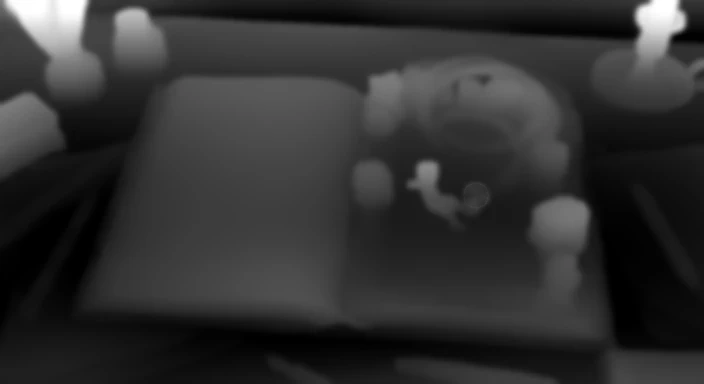
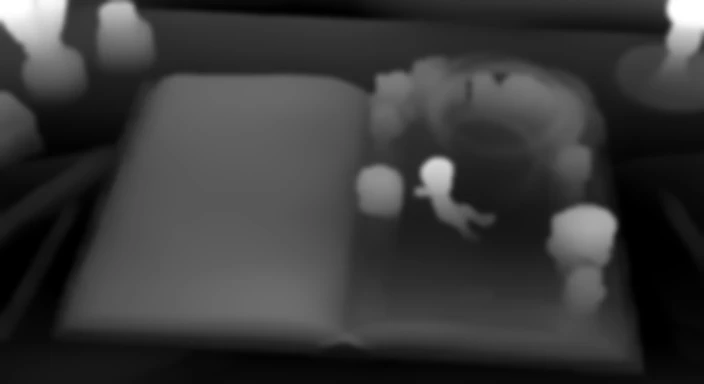
Upside-Down World: new 3D art for page one, ball flight starts at the new ball
Claude-Session: https://claude.ai/code/session_01BFtifSTdmWYaAK88ECs5PE

diff --git a/books/upside-down-world/sprite.js b/books/upside-down-world/sprite.js
@@ -1,2 +1,2 @@
 /* flying objects drawn over a still page: img = transparent sprite, rs = ball radius in the sprite, path = [x,y,radius] per frame at 24 fps in 1408x768 picture pixels */
-window.SPRITES={p01:{img:"img/p01-ball.webp",size:260,rs:104.5,path:[[951.0,390.0,18.5],[946.4,377.6,21.9],[944.8,373.2,22.6],[941.8,364.8,24.4],[938.6,356.8,26.0],[935.2,349.1,27.6],[931.6,342.1,29.2],[927.9,335.5,30.7],[923.8,329.1,32.0],[919.7,322.8,33.5],[915.7,316.9,34.9],[911.8,311.1,36.2],[907.8,305.5,37.6],[903.9,300.1,38.9],[899.8,295.1,40.2],[895.8,290.0,41.2],[891.4,285.1,42.2],[887.2,280.3,43.2],[882.9,275.7,44.3],[878.9,271.0,45.3],[874.9,266.6,46.5],[871.2,262.1,47.8],[867.5,257.7,49.1],[863.9,253.4,50.5],[860.2,249.1,51.8],[856.2,244.7,53.0],[852.4,240.6,54.2],[848.3,236.6,55.3],[843.9,232.6,56.5],[839.6,228.6,57.6],[835.4,224.8,58.6],[830.9,221.0,59.7],[826.3,217.3,60.7],[821.9,213.7,61.5],[817.4,210.1,62.4],[812.8,206.8,63.6],[808.1,203.5,64.5],[803.4,200.3,65.6],[798.8,196.9,66.6],[794.1,193.7,67.7],[789.4,190.4,68.8],[784.8,187.1,70.0],[780.1,183.8,71.3],[775.3,180.6,72.7],[770.3,177.4,74.1],[765.1,174.3,75.5],[759.8,171.1,77.0],[754.7,167.8,78.5],[749.2,164.6,80.0],[743.7,161.4,81.3],[738.1,157.9,82.7],[732.6,154.6,84.0]]},p02:{img:"img/p01-ball.webp",size:260,rs:104.5,kind:"lob",from:[1008,538,9],to:[1040,212,4.2],apex:170,rig:[{img:"img/p02-leg.webp",box:[960,515,60,60],pivot:[987,531],depth:[988,545],motion:"leg"}]},p03:{rig:[{img:"img/p03-leo.webp",box:[906,462,52,56],pivot:[932,504],depth:[932,495],motion:"headL"},{img:"img/p03-sam.webp",box:[946,475,52,56],pivot:[972,515],depth:[972,505],motion:"headS"}]},p03s:{img:"img/p01-ball.webp",size:260,rs:104.5,kind:"hops",ground:true,rest:1.6,start:[920.3,488.6,14.5],du:[1.25,.42,.3],grow:.5,bend:-62,hops:[[896,197,9.5,175],[892,187,8.5,15],[879,181,7.5,6]],to:[879,181,7.5]},p03t:{rig:[{img:"img/p03-turn.webp",box:[888,468,114,140],pivot:[945,538],depth:[945,540],motion:"turn"}]},p05p:{rig:[{img:"img/p05-point.webp",box:[884,452,118,156],pivot:[943,530],depth:[943,540],motion:"point2"}]},p06k:{rig:[{img:"img/p06-k0.webp",box:[878,423,80,114],pivot:[918.4,478.3],depth:[918.4,508.3],motion:"kf0"},{img:"img/p06-k1.webp",box:[866,417,97,111],pivot:[915.3,473.5],depth:[915.3,503.5],motion:"kf1"},{img:"img/p06-k2.webp",box:[874,472,99,116],pivot:[921.4,531.8],depth:[921.4,561.8],motion:"kf2"}]},p07k:{rig:[{img:"img/p07-kids.webp",box:[859.6,324.2,83.1,120.1],pivot:[910,404],depth:[910,395],motion:"walk7"}]},p08k:{rig:[{img:"img/p08-k1.webp",box:[750,272,339.5,323],pivot:[920,590],depth:[920,560],motion:"p8a"},{img:"img/p08-k2.webp",box:[781,272,283.5,323],pivot:[920,590],depth:[920,560],motion:"p8b"}]},p09k:{rig:[{img:"img/p09-wave.webp",box:[868,430,152,180],pivot:[944,520],depth:[944,540],motion:"p9"}]},p10k:{rig:[{img:"img/p10-kids.webp",box:[800,350,240,210],pivot:[920,455],depth:[920,470],motion:"stride"},{img:"img/p10-whale.webp",box:[640,30,550,380],pivot:[905,220],depth:[905,220],motion:"flip10"}]},p11k:{rig:[{img:"img/p10-kids.webp",box:[800,350,240,210],pivot:[920,455],depth:[920,470],motion:"stride"},{img:"img/p11-song.webp",box:[23,59,1272,491],pivot:[660,300],depth:[880,180],motion:"song11"}]},p12k:{rig:[{img:"img/p12-k1.webp",box:[810,340,250,260],pivot:[935,470],depth:[935,480],motion:"p12a"},{img:"img/p12-k2.webp",box:[810,340,250,260],pivot:[935,470],depth:[935,480],motion:"p12b"}]},p13k:{rig:[{img:"img/p13-gasp.webp",box:[920,350,140,140],pivot:[990,420],depth:[990,430],motion:"p13"}]},p14k:{rig:[{img:"img/p14-k1.webp",box:[850,320,210,220],pivot:[955,430],depth:[955,440],motion:"p14a"},{img:"img/p14-k2.webp",box:[850,320,210,220],pivot:[955,430],depth:[955,440],motion:"p14b"}]},p15k:{rig:[{img:"img/p15-k1.webp",box:[557,7,792,675.5],pivot:[953,345],depth:[975,418],motion:"p15a"},{img:"img/p15-k2.webp",box:[557,7,792,675.5],pivot:[953,345],depth:[975,418],motion:"p15b"}]},p16k:{rig:[{img:"img/p16-b.webp",box:[704.0, 14.5, 638.0, 367.0],pivot:[1023, 198],depth:[1063, 190],motion:"p16b"},{img:"img/p16-roma.webp",box:[705.5, 421.0, 524.5, 251.5],pivot:[968, 634],depth:[968, 547],motion:"p16roma"}]},p18k:{rig:[{img:"img/p18-k1.webp",box:[645.0,0.0,645.5,693.0],pivot:[968,346],depth:[990,367],motion:"p17b"},{img:"img/p18-k2.webp",box:[645.0,0.0,645.5,693.0],pivot:[968,346],depth:[990,367],motion:"p17c"}]},p21k:{rig:[{img:"img/p21-k1.webp",box:[645.0,0.0,645.5,693.0],pivot:[968,346],depth:[990,367],motion:"p17b"}]},p41k:{rig:[{img:"img/p41-k1.webp",box:[645.0,0.0,645.5,693.0],pivot:[968,346],depth:[990,367],motion:"p17b"},{img:"img/p41-k2.webp",box:[645.0,0.0,645.5,693.0],pivot:[968,346],depth:[990,367],motion:"p17c"}]},p40k:{rig:[{img:"img/p40-k1.webp",box:[645.0,0.0,645.5,693.0],pivot:[968,346],depth:[990,367],motion:"p17b"},{img:"img/p40-k2.webp",box:[645.0,0.0,645.5,693.0],pivot:[968,346],depth:[990,367],motion:"p17c"}]},p39k:{rig:[{img:"img/p39-k1.webp",box:[645.0,0.0,645.5,693.0],pivot:[968,346],depth:[990,367],motion:"p39a"},{img:"img/p39-k2.webp",box:[645.0,0.0,645.5,693.0],pivot:[968,346],depth:[990,367],motion:"p39b"}]},p38k:{rig:[{img:"img/p38-k1.webp",box:[645.0,0.0,645.5,693.0],pivot:[968,346],depth:[990,367],motion:"p38a"},{img:"img/p38-k2.webp",box:[645.0,0.0,645.5,693.0],pivot:[968,346],depth:[990,367],motion:"p38b"}]},p37k:{rig:[{img:"img/p37-k1.webp",box:[645.0,0.0,645.5,693.0],pivot:[968,346],depth:[990,367],motion:"p37a"},{img:"img/p37-k2.webp",box:[645.0,0.0,645.5,693.0],pivot:[968,346],depth:[990,367],motion:"p37b"}]},p36k:{rig:[{img:"img/p36-k1.webp",box:[645.0,0.0,645.5,693.0],pivot:[968,346],depth:[990,367],motion:"p36a"},{img:"img/p36-k2.webp",box:[645.0,0.0,645.5,693.0],pivot:[968,346],depth:[990,367],motion:"p36b"}]},p35k:{rig:[{img:"img/p35-k1.webp",box:[645.0,0.0,645.5,693.0],pivot:[968,346],depth:[990,367],motion:"p35a"},{img:"img/p35-k2.webp",box:[645.0,0.0,645.5,693.0],pivot:[968,346],depth:[990,367],motion:"p35b"}]},p34k:{rig:[{img:"img/p34-k1.webp",box:[645.0,0.0,645.5,693.0],pivot:[968,346],depth:[990,367],motion:"p34a"},{img:"img/p34-k2.webp",box:[645.0,0.0,645.5,693.0],pivot:[968,346],depth:[990,367],motion:"p34b"},{img:"img/p34-k3.webp",box:[645.0,0.0,645.5,693.0],pivot:[968,346],depth:[990,367],motion:"p34c"}]},p33k:{rig:[{img:"img/p33-k1.webp",box:[645.0,0.0,645.5,693.0],pivot:[968,346],depth:[990,367],motion:"p33a"},{img:"img/p33-k2.webp",box:[645.0,0.0,645.5,693.0],pivot:[968,346],depth:[990,367],motion:"p33b"},{img:"img/p33-k3.webp",box:[645.0,0.0,645.5,693.0],pivot:[968,346],depth:[990,367],motion:"p33c"},{img:"img/p33-k4.webp",box:[645.0,0.0,645.5,693.0],pivot:[968,346],depth:[990,367],motion:"p33d"},{img:"img/p33-k5.webp",box:[645.0,0.0,645.5,693.0],pivot:[968,346],depth:[990,367],motion:"p33e"}]},p32k:{rig:[{img:"img/p32-k1.webp",box:[645.0,0.0,645.5,693.0],pivot:[968,346],depth:[990,367],motion:"p32a"},{img:"img/p32-k2.webp",box:[645.0,0.0,645.5,693.0],pivot:[968,346],depth:[990,367],motion:"p32b"},{img:"img/p32-k3.webp",box:[645.0,0.0,645.5,693.0],pivot:[968,346],depth:[990,367],motion:"p32c"}]},p31k:{rig:[{img:"img/p31-k1.webp",box:[645.0,0.0,645.5,693.0],pivot:[968,346],depth:[990,367],motion:"p17b"}]},p30k:{rig:[{img:"img/p30-k1.webp",box:[645.0,0.0,645.5,693.0],pivot:[968,346],depth:[990,367],motion:"p17b"},{img:"img/p30-k2.webp",box:[645.0,0.0,645.5,693.0],pivot:[968,346],depth:[990,367],motion:"p17c"}]},p29k:{rig:[{img:"img/p29-k1.webp",box:[645.0,0.0,645.5,693.0],pivot:[968,346],depth:[990,367],motion:"p17b"},{img:"img/p29-k2.webp",box:[645.0,0.0,645.5,693.0],pivot:[968,346],depth:[990,367],motion:"p17c"}]},p28k:{rig:[{img:"img/p28-k1.webp",box:[645.0,0.0,645.5,693.0],pivot:[968,346],depth:[990,367],motion:"p17b"},{img:"img/p28-k2.webp",box:[645.0,0.0,645.5,693.0],pivot:[968,346],depth:[990,367],motion:"p17c"}]},p27k:{rig:[{img:"img/p27-k1.webp",box:[645.0,0.0,645.5,693.0],pivot:[968,346],depth:[990,367],motion:"p17b"},{img:"img/p27-k2.webp",box:[645.0,0.0,645.5,693.0],pivot:[968,346],depth:[990,367],motion:"p17c"}]},p26k:{rig:[{img:"img/p26-k1.webp",box:[645.0,0.0,645.5,693.0],pivot:[968,346],depth:[990,367],motion:"p17b"},{img:"img/p26-k2.webp",box:[645.0,0.0,645.5,693.0],pivot:[968,346],depth:[990,367],motion:"p17c"}]},p25k:{rig:[{img:"img/p25-k1.webp",box:[645.0,0.0,645.5,693.0],pivot:[968,346],depth:[990,367],motion:"p17b"},{img:"img/p25-k2.webp",box:[645.0,0.0,645.5,693.0],pivot:[968,346],depth:[990,367],motion:"p17c"}]},p24k:{rig:[{img:"img/p24-k1.webp",box:[645.0,0.0,645.5,693.0],pivot:[968,346],depth:[990,367],motion:"p17b"}]},p23k:{rig:[{img:"img/p23-k1.webp",box:[645.0,0.0,645.5,693.0],pivot:[968,346],depth:[990,367],motion:"p17b"},{img:"img/p23-k2.webp",box:[645.0,0.0,645.5,693.0],pivot:[968,346],depth:[990,367],motion:"p17c"}]},p22k:{rig:[{img:"img/p22-k1.webp",box:[645.0,0.0,645.5,693.0],pivot:[968,346],depth:[990,367],motion:"p17b"},{img:"img/p22-k2.webp",box:[645.0,0.0,645.5,693.0],pivot:[968,346],depth:[990,367],motion:"p17c"}]},p20k:{rig:[{img:"img/p20-k1.webp",box:[645.0,0.0,645.5,693.0],pivot:[968,346],depth:[990,367],motion:"p17b"},{img:"img/p20-k2.webp",box:[645.0,0.0,645.5,693.0],pivot:[968,346],depth:[990,367],motion:"p17c"}]},p19k:{rig:[{img:"img/p19-k1.webp",box:[645.0,0.0,645.5,693.0],pivot:[968,346],depth:[990,367],motion:"p17b"},{img:"img/p19-k2.webp",box:[645.0,0.0,645.5,693.0],pivot:[968,346],depth:[990,367],motion:"p17c"}]},p17k:{rig:[{img:"img/p17-k1.webp",box:[645.0, 0.0, 697.0, 693.0],pivot:[994, 346],depth:[990, 367],motion:"p17b"},{img:"img/p17-k2.webp",box:[645.0, 0.0, 697.0, 693.0],pivot:[994, 346],depth:[990, 367],motion:"p17c"}]}};
+window.SPRITES={p01:{img:"img/p01-ball.webp",size:260,rs:104.5,path:[[993.6,408.3,18.5],[987.8,395.4,21.9],[984.9,390.4,22.6],[980.7,381.5,24.4],[976.3,373.0,26.0],[971.7,364.8,27.6],[966.9,357.3,29.2],[962.0,350.2,30.7],[956.8,343.3,32.0],[951.5,336.5,33.5],[946.4,330.1,34.9],[941.4,323.8,36.2],[936.3,317.7,37.6],[931.3,311.9,38.9],[926.1,306.4,40.2],[921.1,300.9,41.2],[915.6,295.5,42.2],[910.4,290.3,43.2],[905.1,285.2,44.3],[900.1,280.1,45.3],[895.1,275.3,46.5],[890.4,270.4,47.8],[885.8,265.5,49.1],[881.2,260.8,50.5],[876.6,256.1,51.8],[871.7,251.4,53.0],[867.0,246.9,54.2],[862.1,242.5,55.3],[856.8,238.1,56.5],[851.7,233.8,57.6],[846.7,229.6,58.6],[841.4,225.5,59.7],[836.0,221.5,60.7],[830.8,217.5,61.5],[825.6,213.6,62.4],[820.3,210.0,63.6],[814.9,206.4,64.5],[809.5,202.9,65.6],[804.3,199.3,66.6],[799.0,195.8,67.7],[793.7,192.2,68.8],[788.5,188.7,70.0],[783.3,185.2,71.3],[777.9,181.7,72.7],[772.5,178.3,74.1],[766.8,175.0,75.5],[761.1,171.7,77.0],[755.6,168.2,78.5],[749.8,164.9,80.0],[744.0,161.5,81.3],[738.2,158.0,82.7],[732.6,154.6,84.0]]},p02:{img:"img/p01-ball.webp",size:260,rs:104.5,kind:"lob",from:[1008,538,9],to:[1040,212,4.2],apex:170,rig:[{img:"img/p02-leg.webp",box:[960,515,60,60],pivot:[987,531],depth:[988,545],motion:"leg"}]},p03:{rig:[{img:"img/p03-leo.webp",box:[906,462,52,56],pivot:[932,504],depth:[932,495],motion:"headL"},{img:"img/p03-sam.webp",box:[946,475,52,56],pivot:[972,515],depth:[972,505],motion:"headS"}]},p03s:{img:"img/p01-ball.webp",size:260,rs:104.5,kind:"hops",ground:true,rest:1.6,start:[920.3,488.6,14.5],du:[1.25,.42,.3],grow:.5,bend:-62,hops:[[896,197,9.5,175],[892,187,8.5,15],[879,181,7.5,6]],to:[879,181,7.5]},p03t:{rig:[{img:"img/p03-turn.webp",box:[888,468,114,140],pivot:[945,538],depth:[945,540],motion:"turn"}]},p05p:{rig:[{img:"img/p05-point.webp",box:[884,452,118,156],pivot:[943,530],depth:[943,540],motion:"point2"}]},p06k:{rig:[{img:"img/p06-k0.webp",box:[878,423,80,114],pivot:[918.4,478.3],depth:[918.4,508.3],motion:"kf0"},{img:"img/p06-k1.webp",box:[866,417,97,111],pivot:[915.3,473.5],depth:[915.3,503.5],motion:"kf1"},{img:"img/p06-k2.webp",box:[874,472,99,116],pivot:[921.4,531.8],depth:[921.4,561.8],motion:"kf2"}]},p07k:{rig:[{img:"img/p07-kids.webp",box:[859.6,324.2,83.1,120.1],pivot:[910,404],depth:[910,395],motion:"walk7"}]},p08k:{rig:[{img:"img/p08-k1.webp",box:[750,272,339.5,323],pivot:[920,590],depth:[920,560],motion:"p8a"},{img:"img/p08-k2.webp",box:[781,272,283.5,323],pivot:[920,590],depth:[920,560],motion:"p8b"}]},p09k:{rig:[{img:"img/p09-wave.webp",box:[868,430,152,180],pivot:[944,520],depth:[944,540],motion:"p9"}]},p10k:{rig:[{img:"img/p10-kids.webp",box:[800,350,240,210],pivot:[920,455],depth:[920,470],motion:"stride"},{img:"img/p10-whale.webp",box:[640,30,550,380],pivot:[905,220],depth:[905,220],motion:"flip10"}]},p11k:{rig:[{img:"img/p10-kids.webp",box:[800,350,240,210],pivot:[920,455],depth:[920,470],motion:"stride"},{img:"img/p11-song.webp",box:[23,59,1272,491],pivot:[660,300],depth:[880,180],motion:"song11"}]},p12k:{rig:[{img:"img/p12-k1.webp",box:[810,340,250,260],pivot:[935,470],depth:[935,480],motion:"p12a"},{img:"img/p12-k2.webp",box:[810,340,250,260],pivot:[935,470],depth:[935,480],motion:"p12b"}]},p13k:{rig:[{img:"img/p13-gasp.webp",box:[920,350,140,140],pivot:[990,420],depth:[990,430],motion:"p13"}]},p14k:{rig:[{img:"img/p14-k1.webp",box:[850,320,210,220],pivot:[955,430],depth:[955,440],motion:"p14a"},{img:"img/p14-k2.webp",box:[850,320,210,220],pivot:[955,430],depth:[955,440],motion:"p14b"}]},p15k:{rig:[{img:"img/p15-k1.webp",box:[557,7,792,675.5],pivot:[953,345],depth:[975,418],motion:"p15a"},{img:"img/p15-k2.webp",box:[557,7,792,675.5],pivot:[953,345],depth:[975,418],motion:"p15b"}]},p16k:{rig:[{img:"img/p16-b.webp",box:[704.0, 14.5, 638.0, 367.0],pivot:[1023, 198],depth:[1063, 190],motion:"p16b"},{img:"img/p16-roma.webp",box:[705.5, 421.0, 524.5, 251.5],pivot:[968, 634],depth:[968, 547],motion:"p16roma"}]},p18k:{rig:[{img:"img/p18-k1.webp",box:[645.0,0.0,645.5,693.0],pivot:[968,346],depth:[990,367],motion:"p17b"},{img:"img/p18-k2.webp",box:[645.0,0.0,645.5,693.0],pivot:[968,346],depth:[990,367],motion:"p17c"}]},p21k:{rig:[{img:"img/p21-k1.webp",box:[645.0,0.0,645.5,693.0],pivot:[968,346],depth:[990,367],motion:"p17b"}]},p41k:{rig:[{img:"img/p41-k1.webp",box:[645.0,0.0,645.5,693.0],pivot:[968,346],depth:[990,367],motion:"p17b"},{img:"img/p41-k2.webp",box:[645.0,0.0,645.5,693.0],pivot:[968,346],depth:[990,367],motion:"p17c"}]},p40k:{rig:[{img:"img/p40-k1.webp",box:[645.0,0.0,645.5,693.0],pivot:[968,346],depth:[990,367],motion:"p17b"},{img:"img/p40-k2.webp",box:[645.0,0.0,645.5,693.0],pivot:[968,346],depth:[990,367],motion:"p17c"}]},p39k:{rig:[{img:"img/p39-k1.webp",box:[645.0,0.0,645.5,693.0],pivot:[968,346],depth:[990,367],motion:"p39a"},{img:"img/p39-k2.webp",box:[645.0,0.0,645.5,693.0],pivot:[968,346],depth:[990,367],motion:"p39b"}]},p38k:{rig:[{img:"img/p38-k1.webp",box:[645.0,0.0,645.5,693.0],pivot:[968,346],depth:[990,367],motion:"p38a"},{img:"img/p38-k2.webp",box:[645.0,0.0,645.5,693.0],pivot:[968,346],depth:[990,367],motion:"p38b"}]},p37k:{rig:[{img:"img/p37-k1.webp",box:[645.0,0.0,645.5,693.0],pivot:[968,346],depth:[990,367],motion:"p37a"},{img:"img/p37-k2.webp",box:[645.0,0.0,645.5,693.0],pivot:[968,346],depth:[990,367],motion:"p37b"}]},p36k:{rig:[{img:"img/p36-k1.webp",box:[645.0,0.0,645.5,693.0],pivot:[968,346],depth:[990,367],motion:"p36a"},{img:"img/p36-k2.webp",box:[645.0,0.0,645.5,693.0],pivot:[968,346],depth:[990,367],motion:"p36b"}]},p35k:{rig:[{img:"img/p35-k1.webp",box:[645.0,0.0,645.5,693.0],pivot:[968,346],depth:[990,367],motion:"p35a"},{img:"img/p35-k2.webp",box:[645.0,0.0,645.5,693.0],pivot:[968,346],depth:[990,367],motion:"p35b"}]},p34k:{rig:[{img:"img/p34-k1.webp",box:[645.0,0.0,645.5,693.0],pivot:[968,346],depth:[990,367],motion:"p34a"},{img:"img/p34-k2.webp",box:[645.0,0.0,645.5,693.0],pivot:[968,346],depth:[990,367],motion:"p34b"},{img:"img/p34-k3.webp",box:[645.0,0.0,645.5,693.0],pivot:[968,346],depth:[990,367],motion:"p34c"}]},p33k:{rig:[{img:"img/p33-k1.webp",box:[645.0,0.0,645.5,693.0],pivot:[968,346],depth:[990,367],motion:"p33a"},{img:"img/p33-k2.webp",box:[645.0,0.0,645.5,693.0],pivot:[968,346],depth:[990,367],motion:"p33b"},{img:"img/p33-k3.webp",box:[645.0,0.0,645.5,693.0],pivot:[968,346],depth:[990,367],motion:"p33c"},{img:"img/p33-k4.webp",box:[645.0,0.0,645.5,693.0],pivot:[968,346],depth:[990,367],motion:"p33d"},{img:"img/p33-k5.webp",box:[645.0,0.0,645.5,693.0],pivot:[968,346],depth:[990,367],motion:"p33e"}]},p32k:{rig:[{img:"img/p32-k1.webp",box:[645.0,0.0,645.5,693.0],pivot:[968,346],depth:[990,367],motion:"p32a"},{img:"img/p32-k2.webp",box:[645.0,0.0,645.5,693.0],pivot:[968,346],depth:[990,367],motion:"p32b"},{img:"img/p32-k3.webp",box:[645.0,0.0,645.5,693.0],pivot:[968,346],depth:[990,367],motion:"p32c"}]},p31k:{rig:[{img:"img/p31-k1.webp",box:[645.0,0.0,645.5,693.0],pivot:[968,346],depth:[990,367],motion:"p17b"}]},p30k:{rig:[{img:"img/p30-k1.webp",box:[645.0,0.0,645.5,693.0],pivot:[968,346],depth:[990,367],motion:"p17b"},{img:"img/p30-k2.webp",box:[645.0,0.0,645.5,693.0],pivot:[968,346],depth:[990,367],motion:"p17c"}]},p29k:{rig:[{img:"img/p29-k1.webp",box:[645.0,0.0,645.5,693.0],pivot:[968,346],depth:[990,367],motion:"p17b"},{img:"img/p29-k2.webp",box:[645.0,0.0,645.5,693.0],pivot:[968,346],depth:[990,367],motion:"p17c"}]},p28k:{rig:[{img:"img/p28-k1.webp",box:[645.0,0.0,645.5,693.0],pivot:[968,346],depth:[990,367],motion:"p17b"},{img:"img/p28-k2.webp",box:[645.0,0.0,645.5,693.0],pivot:[968,346],depth:[990,367],motion:"p17c"}]},p27k:{rig:[{img:"img/p27-k1.webp",box:[645.0,0.0,645.5,693.0],pivot:[968,346],depth:[990,367],motion:"p17b"},{img:"img/p27-k2.webp",box:[645.0,0.0,645.5,693.0],pivot:[968,346],depth:[990,367],motion:"p17c"}]},p26k:{rig:[{img:"img/p26-k1.webp",box:[645.0,0.0,645.5,693.0],pivot:[968,346],depth:[990,367],motion:"p17b"},{img:"img/p26-k2.webp",box:[645.0,0.0,645.5,693.0],pivot:[968,346],depth:[990,367],motion:"p17c"}]},p25k:{rig:[{img:"img/p25-k1.webp",box:[645.0,0.0,645.5,693.0],pivot:[968,346],depth:[990,367],motion:"p17b"},{img:"img/p25-k2.webp",box:[645.0,0.0,645.5,693.0],pivot:[968,346],depth:[990,367],motion:"p17c"}]},p24k:{rig:[{img:"img/p24-k1.webp",box:[645.0,0.0,645.5,693.0],pivot:[968,346],depth:[990,367],motion:"p17b"}]},p23k:{rig:[{img:"img/p23-k1.webp",box:[645.0,0.0,645.5,693.0],pivot:[968,346],depth:[990,367],motion:"p17b"},{img:"img/p23-k2.webp",box:[645.0,0.0,645.5,693.0],pivot:[968,346],depth:[990,367],motion:"p17c"}]},p22k:{rig:[{img:"img/p22-k1.webp",box:[645.0,0.0,645.5,693.0],pivot:[968,346],depth:[990,367],motion:"p17b"},{img:"img/p22-k2.webp",box:[645.0,0.0,645.5,693.0],pivot:[968,346],depth:[990,367],motion:"p17c"}]},p20k:{rig:[{img:"img/p20-k1.webp",box:[645.0,0.0,645.5,693.0],pivot:[968,346],depth:[990,367],motion:"p17b"},{img:"img/p20-k2.webp",box:[645.0,0.0,645.5,693.0],pivot:[968,346],depth:[990,367],motion:"p17c"}]},p19k:{rig:[{img:"img/p19-k1.webp",box:[645.0,0.0,645.5,693.0],pivot:[968,346],depth:[990,367],motion:"p17b"},{img:"img/p19-k2.webp",box:[645.0,0.0,645.5,693.0],pivot:[968,346],depth:[990,367],motion:"p17c"}]},p17k:{rig:[{img:"img/p17-k1.webp",box:[645.0, 0.0, 697.0, 693.0],pivot:[994, 346],depth:[990, 367],motion:"p17b"},{img:"img/p17-k2.webp",box:[645.0, 0.0, 697.0, 693.0],pivot:[994, 346],depth:[990, 367],motion:"p17c"}]}};

diff --git a/books/upside-down-world/index.html b/books/upside-down-world/index.html
@@ -129,7 +129,7 @@ body.narrow #bar{gap:6px;padding-top:8px}body.narrow #bar button{padding:0 12px;
   <button id="next" aria-label="Next page">&#8594;</button>
 </div>
 <script src="story.js?v=43"></script>
-<script src="sprite.js?v=40"></script>
+<script src="sprite.js?v=41"></script>
 <script src="lyrics.js?v=2"></script>
 <script src="voice.js?v=14"></script>
 <script src="vtime.js?v=14"></script>
@@ -214,7 +214,7 @@ const vids={};let blackT=null;
 function black(){if(!blackT&&gl){blackT=gl.createTexture();gl.bindTexture(gl.TEXTURE_2D,blackT);gl.texImage2D(gl.TEXTURE_2D,0,gl.RGB,1,1,0,gl.RGB,gl.UNSIGNED_BYTE,new Uint8Array([0,0,0]));}return {ready:true,t:blackT};}
 function loadVid(name){if(vids[name])return vids[name];const v=document.createElement('video');v.muted=true;v.defaultMuted=true;v.loop=true;v.playsInline=true;v.setAttribute('playsinline','');v.setAttribute('muted','');v.preload='auto';v.crossOrigin='anonymous';v.src='img/'+name+'.mp4';
   const o={v,t:null,ok:false};v.addEventListener('playing',()=>{o.ok=true;});vids[name]=o;return o;}
-function pageTex(p){if(p.video)return {c:loadTex('img/'+p.img+'.webp?v=8'),d:p.relief?loadTex('img/'+p.img+'-d.webp'):black(),vid:loadVid(p.video)};return {c:loadTex('img/'+p.img+'.webp?v=8'),d:loadTex('img/'+p.img+'-d.webp')};}
+function pageTex(p){if(p.video)return {c:loadTex('img/'+p.img+'.webp?v=9'),d:p.relief?loadTex('img/'+p.img+'-d.webp'):black(),vid:loadVid(p.video)};return {c:loadTex('img/'+p.img+'.webp?v=9'),d:loadTex('img/'+p.img+'-d.webp')};}
 const ORIGIN={kb:[.72,.55],shade:[.80,.74]};
 function whv(p){return p.whale?[p.whale[0]/1408,p.whale[1]/768,p.whale[2]/1408,p.whale[3]/768]:[0,0,0,0];}
 function swv(p){return p.swirl?[p.swirl[0]/1408,p.swirl[1]/768,p.swirl[2],p.swirl[3]||0]:[0,0,0,0];}
@@ -239,7 +239,7 @@ function makeLayer(i){
   if(layers[i])return layers[i];
   const p=P[i],L=document.createElement('div');L.className='layer';
   const kb=document.createElement('div');kb.className='kb';kb.style.transformOrigin=(p.fx==='shade'?'80% 74%':'72% 55%');
-  if(!gl){let im;if(p.video){im=loadVid(p.video).v;im.poster='img/'+p.img+'.webp';}else{im=new Image();im.src='img/'+p.img+'.webp?v=8';im.alt='';}im.className='fb';kb.appendChild(im);}
+  if(!gl){let im;if(p.video){im=loadVid(p.video).v;im.poster='img/'+p.img+'.webp';}else{im=new Image();im.src='img/'+p.img+'.webp?v=9';im.alt='';}im.className='fb';kb.appendChild(im);}
   if(p.fx==='shade'){const s=document.createElement('div');s.className='shade';kb.appendChild(s);L._shade=s;}
   if(p.song){const r=document.createElement('div');r.className='rings';r.style.cssText='left:'+(650/W*100)+'%;top:'+(55/H*100)+'%;width:'+(130/W*100)+'%;height:'+(130/H*100)+'%';r.innerHTML='<i></i><i></i><i></i><i></i>';kb.appendChild(r);L._rings=r;}
   const t=document.createElement('div');t.className='txt'+(p.cover?' cover':'')+(p.book?' bk':'')+(p.songcard?' sc':'');let b=p.box;
